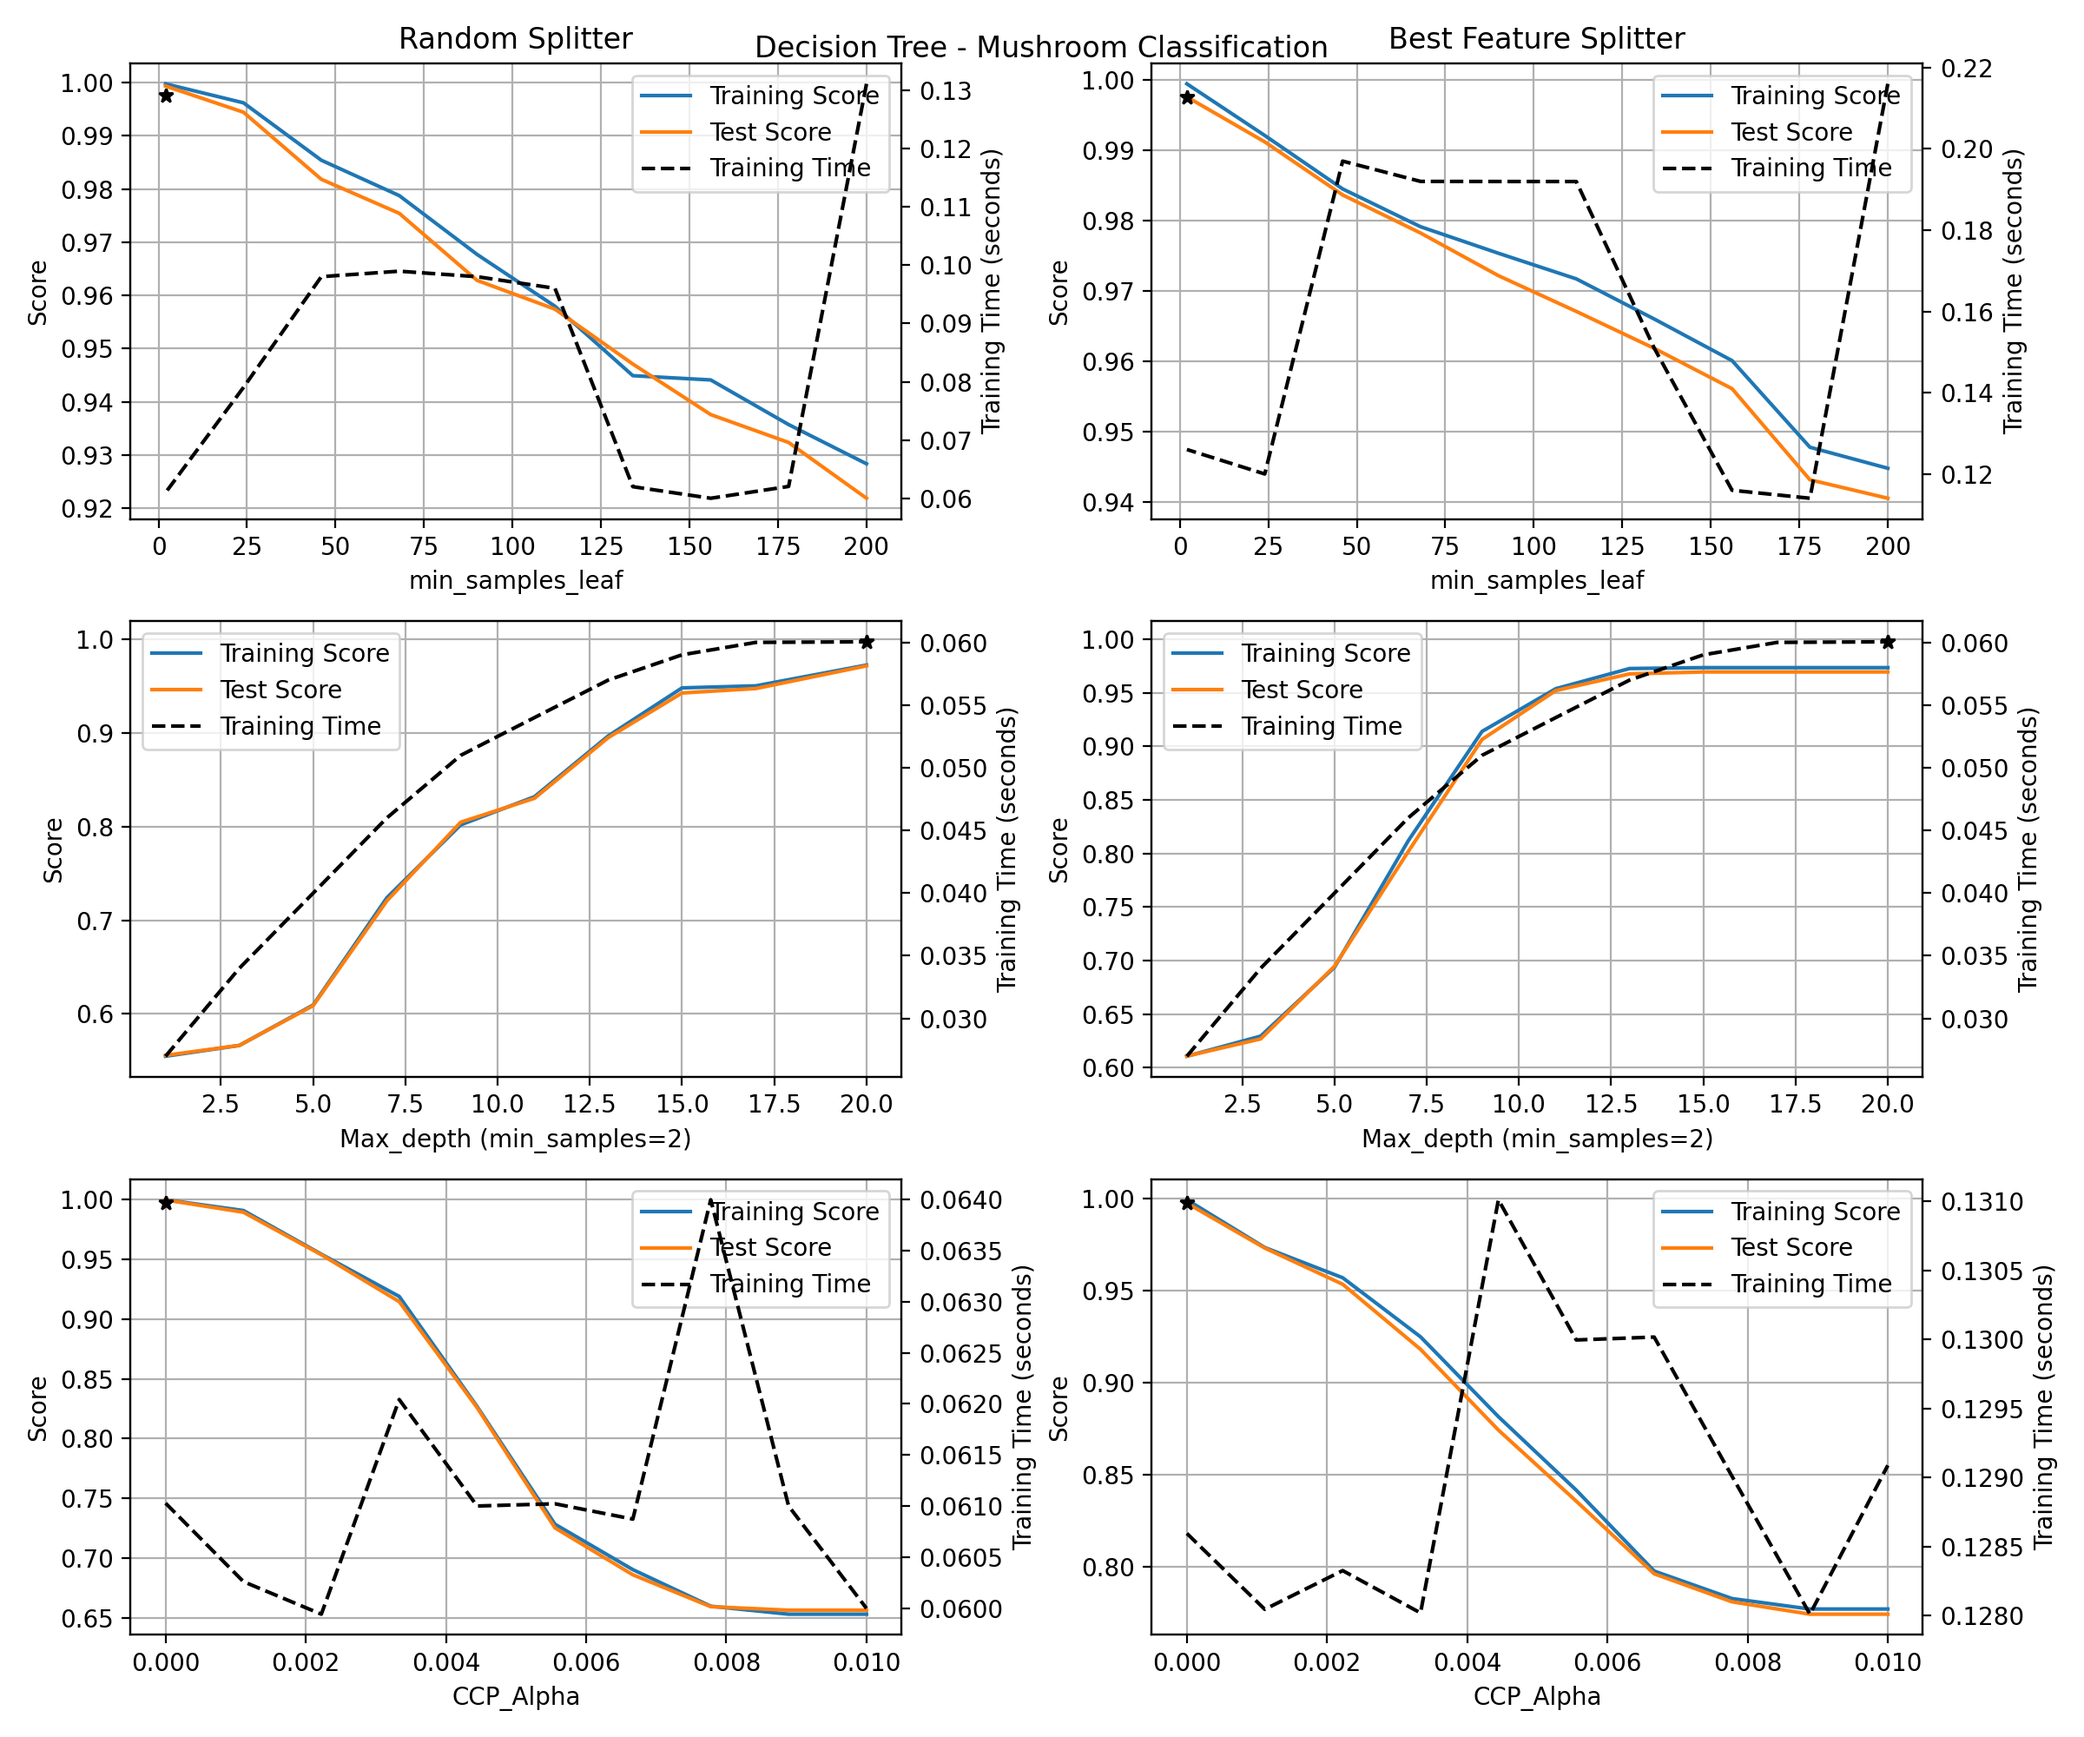
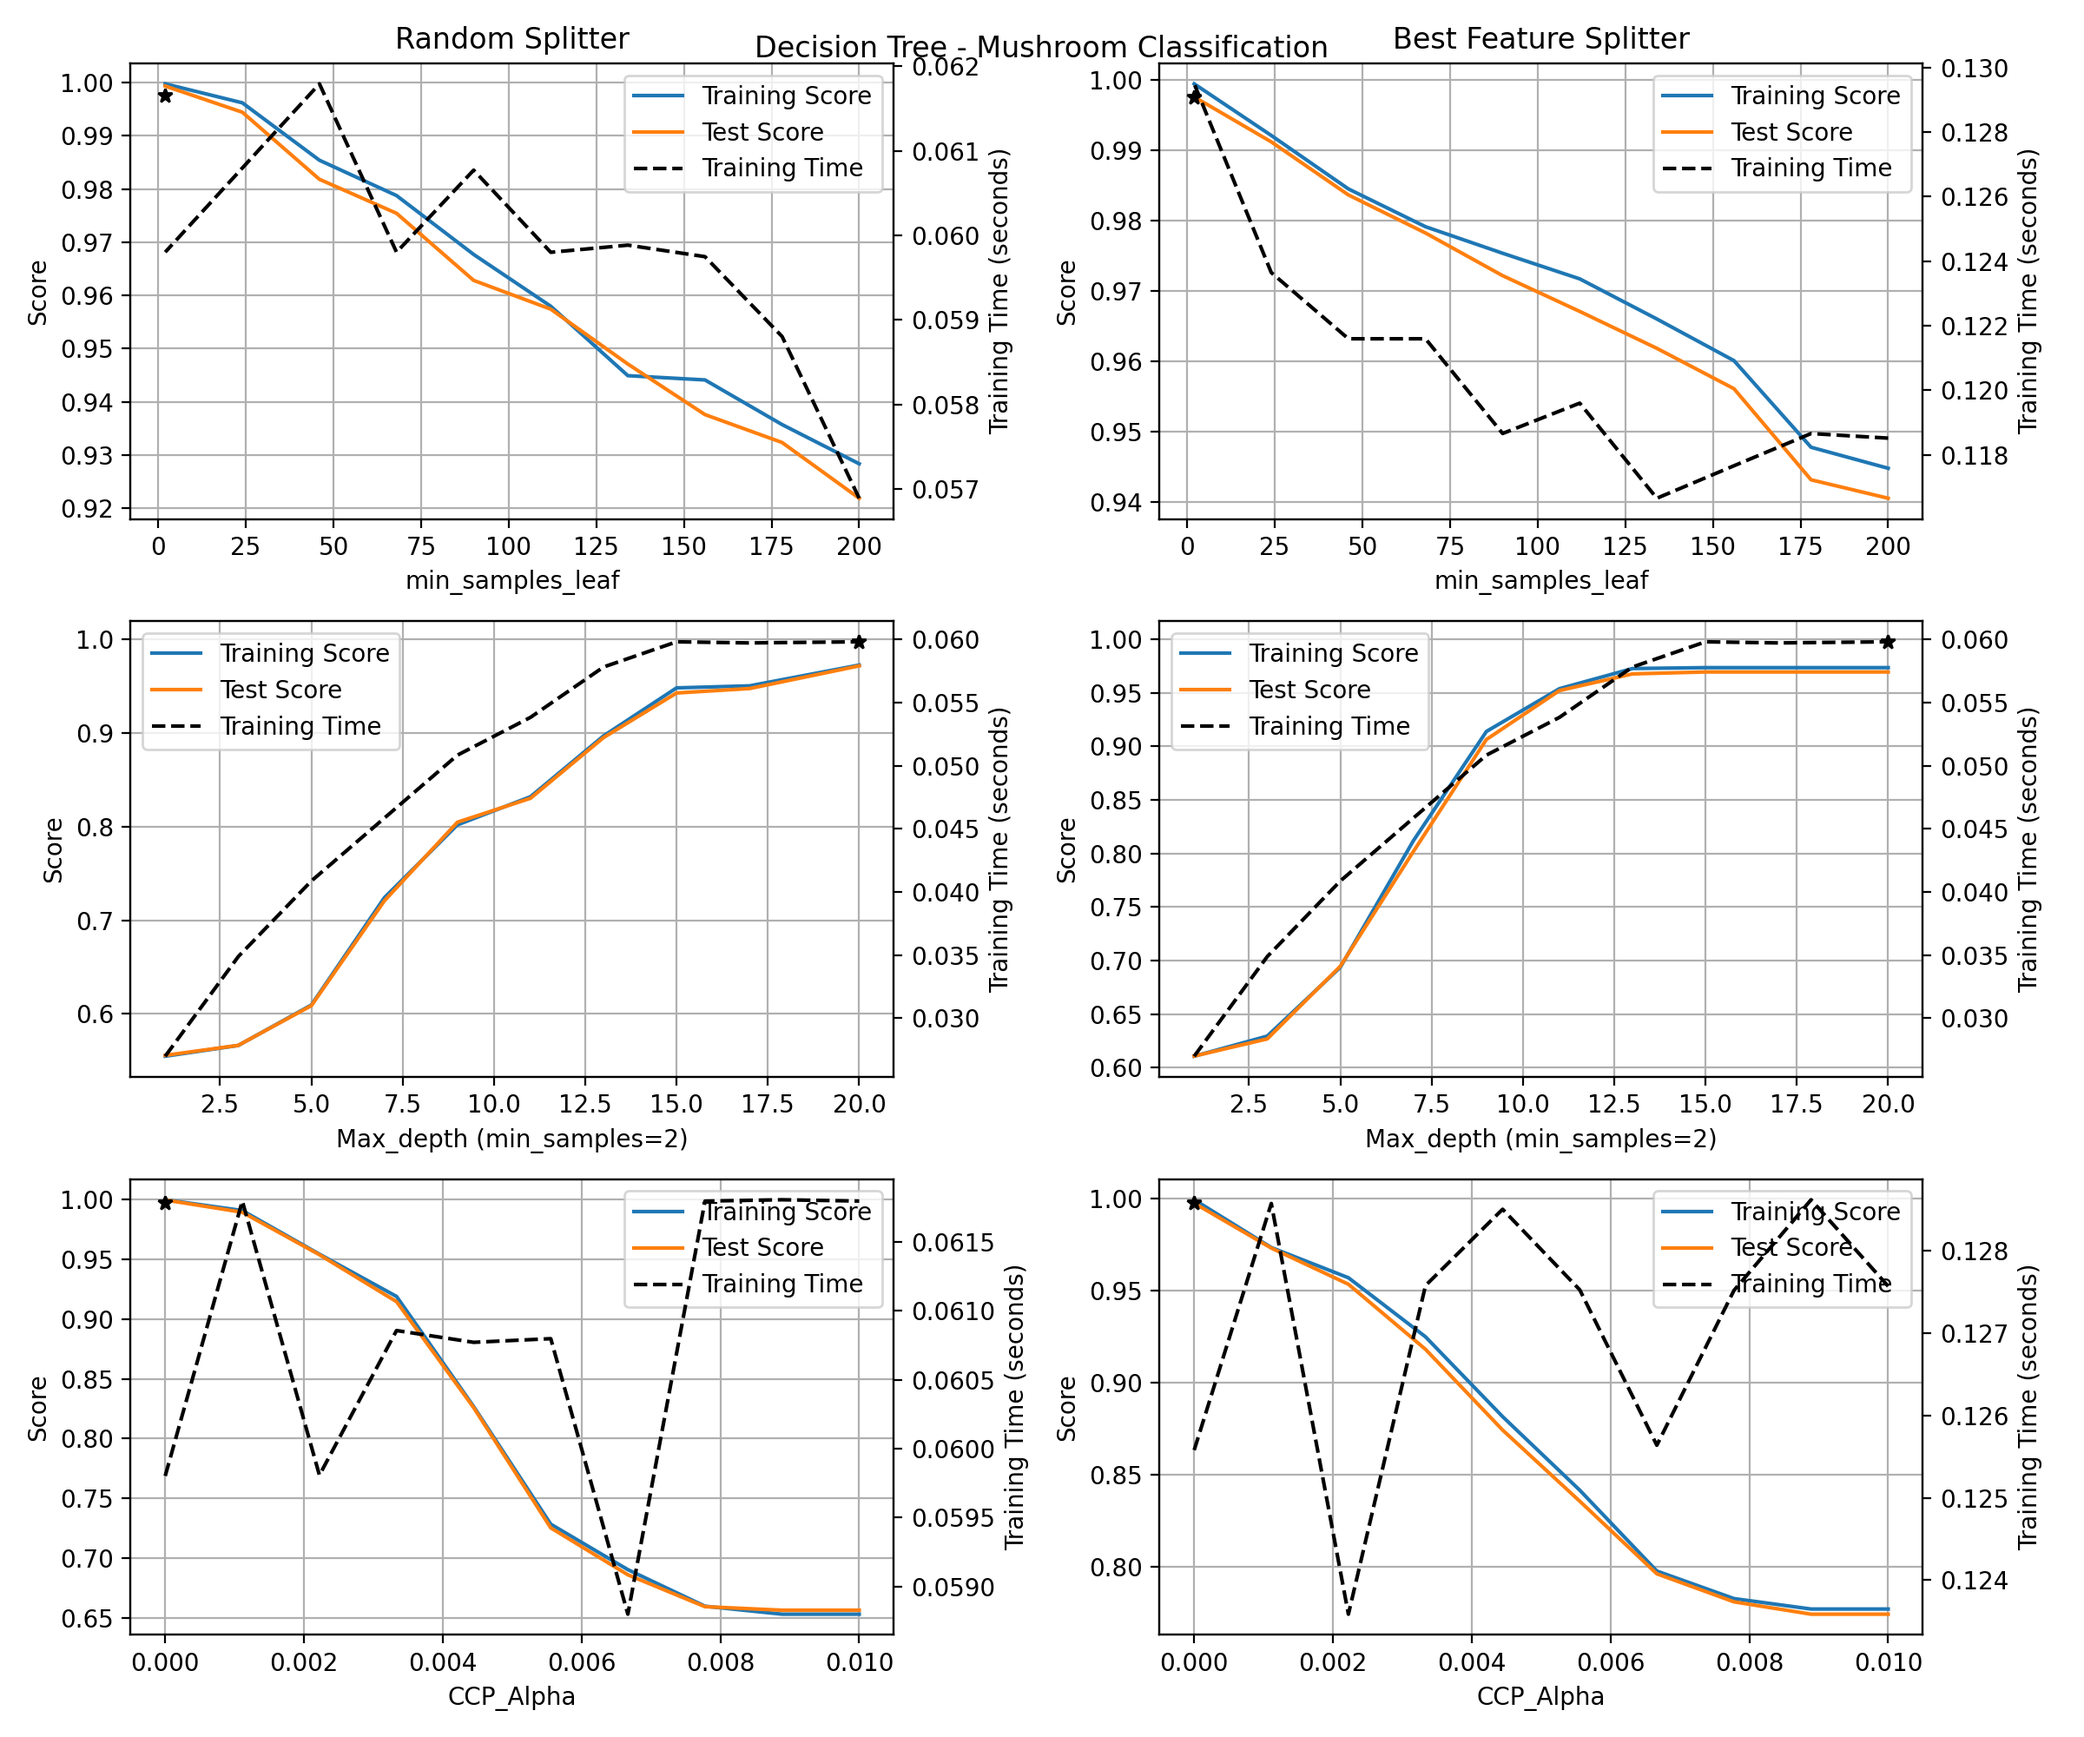
Fix DT plotting and code

diff --git a/Assignment1/assignment_1.py b/Assignment1/assignment_1.py
@@ -167,8 +167,8 @@ for DataSetName, ds in datasets.items():
 
         
     ## Get X, Y data for test and train
-    Xdata = ds1.iloc[:,1:-1]
-    Ydata = ds1.iloc[:,-1]
+    Xdata = ds.iloc[:,1:-1]
+    Ydata = ds.iloc[:,-1]
     
     ## PRE-PROCESS ALL DATA
     
